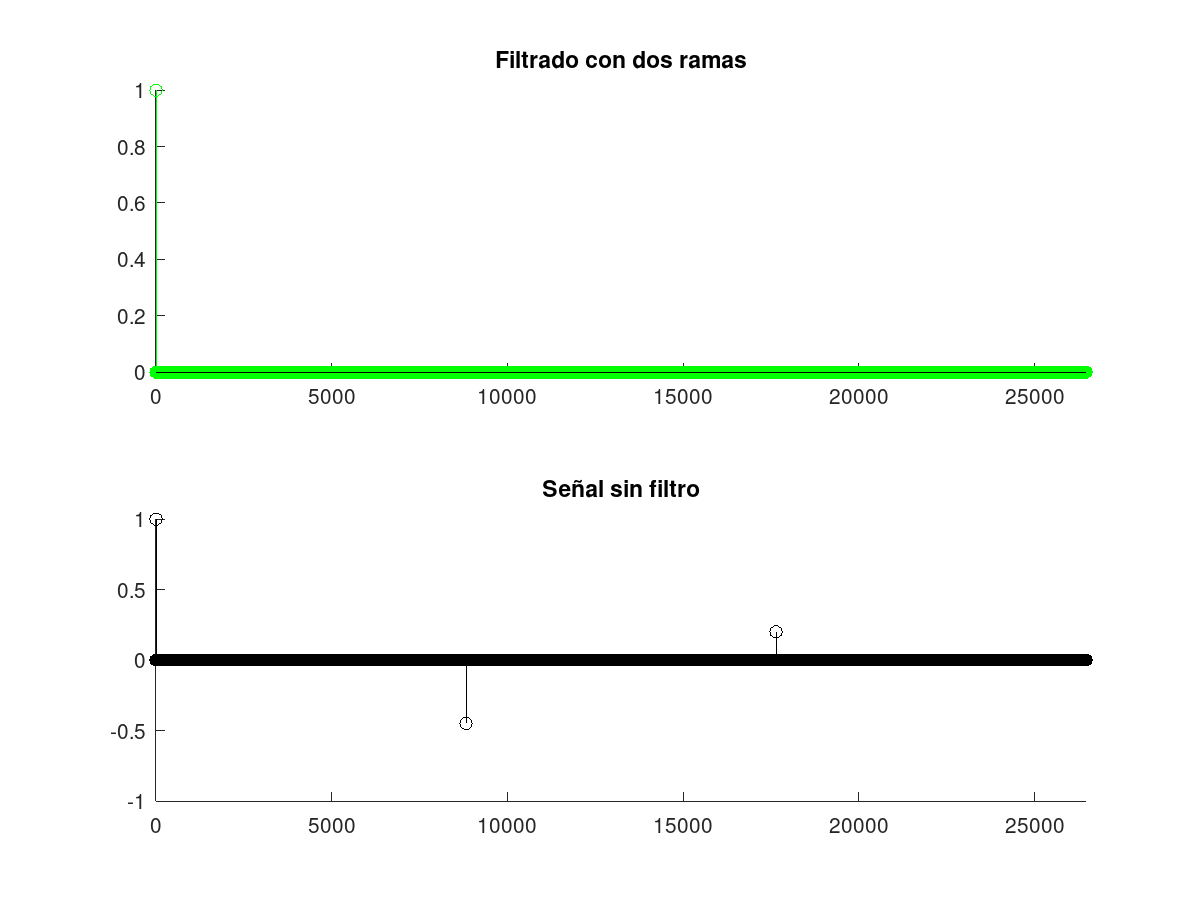
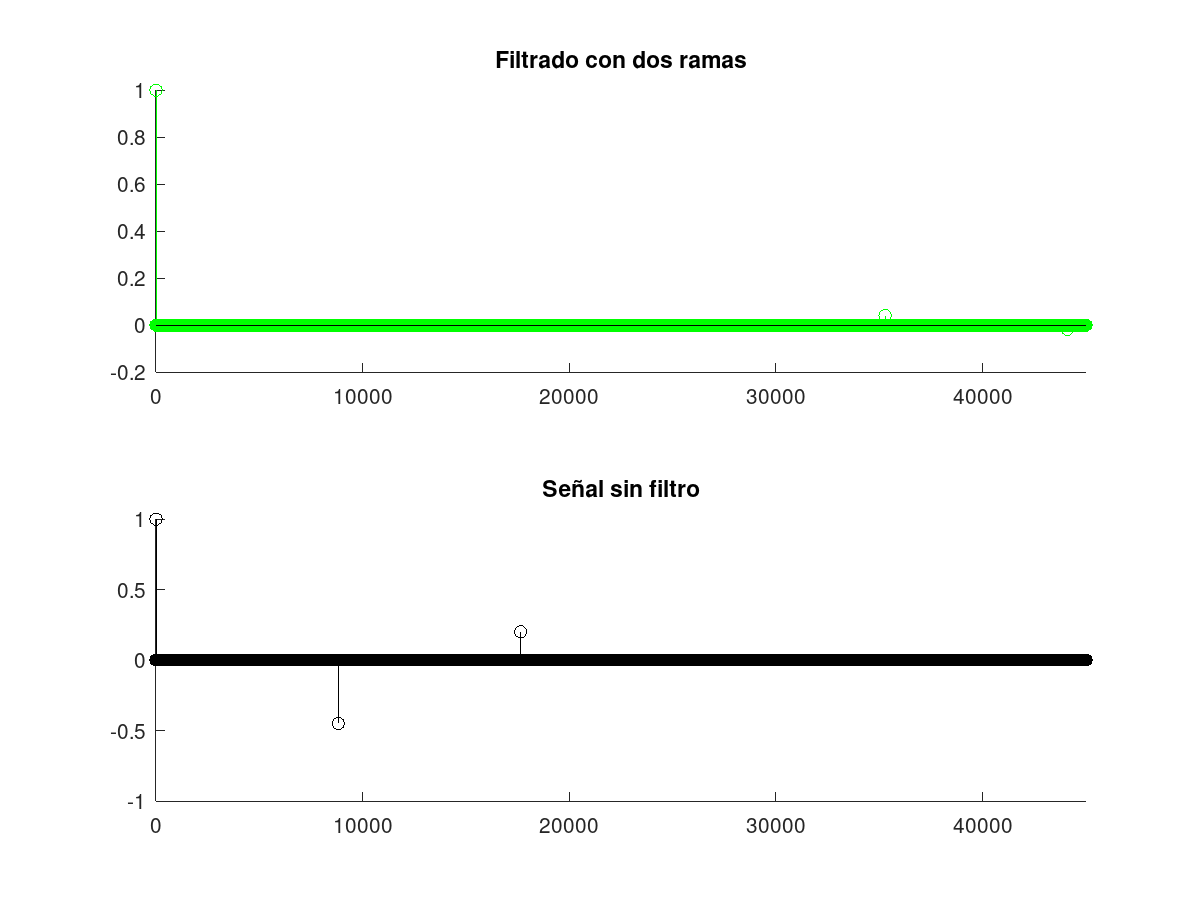
correcciones martes

diff --git a/PU-Ballardini-Peinetti/Ejercicio2/Inciso5.m b/PU-Ballardini-Peinetti/Ejercicio2/Inciso5.m
@@ -7,28 +7,28 @@ salida_filtrada_3 = filtrado_3_ramas(y);
 
 %% Graficamos los resultados obtenidos
 figure,
-subplot(2,1,1), plot(salida_filtrada_1, 'r');
-title('Filtro con una rama');
-
-subplot(2,1,2), plot(y, 'k');
+subplot(2,1,1), plot(y, 'k');
 title('Señal original');
-sound(salida_filtrada_1, fs);
+
+subplot(2,1,2), plot(salida_filtrada_1, 'r');
+title('Filtro con una rama');
+##sound(salida_filtrada_1(:,1), fs);
 print -f7 -dpng figura_7
 
 figure,
-subplot(2,1,1), plot(salida_filtrada_2, 'g');
-title('Filtro con dos ramas');
-
-subplot(2,1,2), plot(y, 'k');
+subplot(2,1,1), plot(y, 'k');
 title('Señal original');
-sound(salida_filtrada_2, fs);
+
+subplot(2,1,2), plot(salida_filtrada_2, 'g');
+title('Filtro con dos ramas');
+##sound(salida_filtrada_2(:,1), fs);
 print -f8 -dpng figura_8
 
 figure,
-subplot(2,1,1), plot(salida_filtrada_3, 'm');
-title('Filtro con 3 ramas');
-
-subplot(2,1,2), plot(y, 'k');
+subplot(2,1,1), plot(y, 'k');
 title('Señal original');
-sound(salida_filtrada_3, fs);
+
+subplot(2,1,2), plot(salida_filtrada_3, 'm');
+title('Filtro con 3 ramas');
+##sound(salida_filtrada_3(:,1), fs);
 print -f9 -dpng figura_9

diff --git a/PU-Ballardini-Peinetti/Ejercicio2/Inciso4.m b/PU-Ballardini-Peinetti/Ejercicio2/Inciso4.m
@@ -12,35 +12,35 @@ respuesta_filtrada_3 = filtrado_3_ramas(f);
 figure,
 subplot(2,1,1),
 stem(respuesta_filtrada_1, '-r');
-xlim([0 26459]);
+xlim([0 45000]);
 title('Filtrado con una rama');
 
 subplot(2,1,2),
 stem(f, '-k');
-xlim([0 26459]);
+xlim([0 45000]);
 title('Señal sin filtro');
 print -f4 -dpng figura_4
 
 figure,
 subplot(2,1,1),
 stem(respuesta_filtrada_2, '-g');
-xlim([0 26459]);
+xlim([0 45000]);
 title('Filtrado con dos ramas');
 
 subplot(2,1,2),
 stem(f, '-k');
-xlim([0 26459]);
+xlim([0 45000]);
 title('Señal sin filtro');
 print -f5 -dpng figura_5
 
 figure,
 subplot(2,1,1),
 stem(respuesta_filtrada_3, '-m');
-xlim([0 26459]);
+xlim([0 45000]);
 title('Filtrado con 3 ramas');
 
 subplot(2,1,2),
 stem(f, '-k');
-xlim([0 26459]);
+xlim([0 45000]);
 title('Señal sin filtro');
 print -f6 -dpng figura_6

diff --git a/PU-Ballardini-Peinetti/Ejercicio2/Inciso3.m b/PU-Ballardini-Peinetti/Ejercicio2/Inciso3.m
@@ -5,7 +5,7 @@
 [x, fs] = audioread('audio.wav');
 
 %% Procedemos a obtener la respuesta del sistema frente a la entrada de audio
-y = funcion_prueba(x);
+y = funcion_prueba(x(:,1)) + funcion_prueba(x(:,2));
 xlabel('n');
 ylabel('y[n]');
 
@@ -13,14 +13,19 @@ ylabel('y[n]');
 %% Podemos escuchar ecos
 
 # DESCOMENTAR PARA ESCUCHAR
-sound(x, fs);
 figure,
-subplot(2,1,1),
+subplot(3,1,1),
 plot(x(:,1));
 title('Señal del audio original (solo el canal izquierdo del audio)');
+##sound(x(:,1), fs);
 
-sound(y, fs);
-subplot(2,1,2),
-plot(y(:,1));
+subplot(3,1,2),
+plot(x(:,2));
+title('Señal del audio original (solo el canal derecho del audio)');
+##sound(x(:,2), fs);
+
+subplot(3,1,3),
+plot(y);
 title('Señal del audio con eco');
 print -f3 -dpng figura_3
+##sound(y, fs);

diff --git a/PU-Ballardini-Peinetti/Ejercicio2/Inciso2.m b/PU-Ballardini-Peinetti/Ejercicio2/Inciso2.m
@@ -1,9 +1,8 @@
 %% INCISO 2
 
 %% Declaramos una delta de Kronecker con sus índices
-deltaK = zeros(size(h));
-deltaK(1) = 1;
-indiceK = [0:1:26459];
+indiceK = [0:1:45000];
+deltaK = indiceK == 0;
 
 %% Obtenemos la repuesta del sistema a una delta de Kronecker
 hprueba = funcion_prueba(deltaK);
@@ -18,7 +17,7 @@ title('Respuesta impulsional h');
 xlabel('s');
 ylabel('|H(e^(j*2*pi*s))|');
 
-subplot(2,1,2), stem(n, hprueba, '-m');
+subplot(2,1,2), stem(indiceK, hprueba, '-m');
 xlim([0 26459]);
 title('Respuesta del sistema a una delta de Kronecker');;
 xlabel('s');

diff --git a/PU-Ballardini-Peinetti/Ejercicio2/filtrado_3_ramas.m b/PU-Ballardini-Peinetti/Ejercicio2/filtrado_3_ramas.m
@@ -4,10 +4,12 @@ function [ y ] = filtrado_3_ramas( x )
   for i=2:length(x)
     if(i < 8821)
       y(i) = x(i);
-    elseif(i < 17641)
+    elseif(i < 26461)
       y(i) = x(i) + (0.45)*x(i-8820);
-    elseif(i < 26460)
-      y(i) = x(i) - (0.2)*x(i-17640);
+    elseif(i < 35281)
+      y(i) = x(i) + (0.45)*x(i-8820) - (0.09)*x(i-26460);
+    else
+      y(i) = x(i) + (0.45)*x(i-8820) - (0.09)*x(i-26460) - (0.04)*x(i-35280);
     end
   end
 end

diff --git a/PU-Ballardini-Peinetti/Ejercicio2/filtrado_2_ramas.m b/PU-Ballardini-Peinetti/Ejercicio2/filtrado_2_ramas.m
@@ -4,10 +4,10 @@ function [ y ] = filtrado_2_ramas( x )
   for i=2:length(x)
     if(i < 8821)
       y(i) = x(i);
-    elseif(i < 17641)
+    elseif(i < 26461)
       y(i) = x(i) + (0.45)*x(i-8820);
     else
-      y(i) = x(i) - (0.2)*x(i-17640);
+      y(i) = x(i) + (0.45)*x(i-8820) - (0.09)*x(i-26460);
     end
   end
 end

diff --git a/PU-Ballardini-Peinetti/Ejercicio2/filtrado_1_rama.m b/PU-Ballardini-Peinetti/Ejercicio2/filtrado_1_rama.m
@@ -1,10 +1,10 @@
-function [ y ] = filtrado_2_ramas( x )
+function [ y ] = filtrado_1_rama( x )
   y = zeros(size(x));
   y(1) = x(1);
   for i=2:length(x)
     if(i < 8821)
       y(i) = x(i);
-    elseif(i < 17641)
+    else
       y(i) = x(i) + (0.45)*x(i-8820);
     end
   end

diff --git a/Ejercicio2/funcion_prueba.m b/Ejercicio2/funcion_prueba.m
@@ -2,7 +2,7 @@ function [ y ] = funcion_prueba( x )
   %% Escribimos una ecuación en diferencias para verificar la resp impulsional
   y = zeros(size(x));
   y(1) = x(1);
-  for i=1:length(x)
+  for i=2:length(x)
     if(i < 8821)
       y(i) = x(i);
     elseif(i < 17641)

diff --git a/Ejercicio2/Inciso3.m b/Ejercicio2/Inciso3.m
@@ -5,7 +5,8 @@
 [x, fs] = audioread('audio.wav');
 
 %% Procedemos a obtener la respuesta del sistema frente a la entrada de audio
-y = funcion_prueba(x);
+y = funcion_prueba(x(:,1));
+y += funcion_prueba(x(:,2));
 xlabel('n');
 ylabel('y[n]');
 

diff --git a/Ejercicio2/Ejercicio2.m b/Ejercicio2/Ejercicio2.m
@@ -1,7 +1,7 @@
 %%%%%%%%%%%%%%%%%%%%%% Ejercicio 2 %%%%%%%%%%%%%%%%%%%%%%%%%%%%
 Inciso1
-##Inciso2
-##Inciso3
+Inciso2
+Inciso3
 ##Inciso4
 ##Inciso5
 %%%%%%%%%%%%%%%%%%%%%%%%%%%%%%%%%%%%%%%%%%%%%%%%%%%%%%%%%%%%%%%
